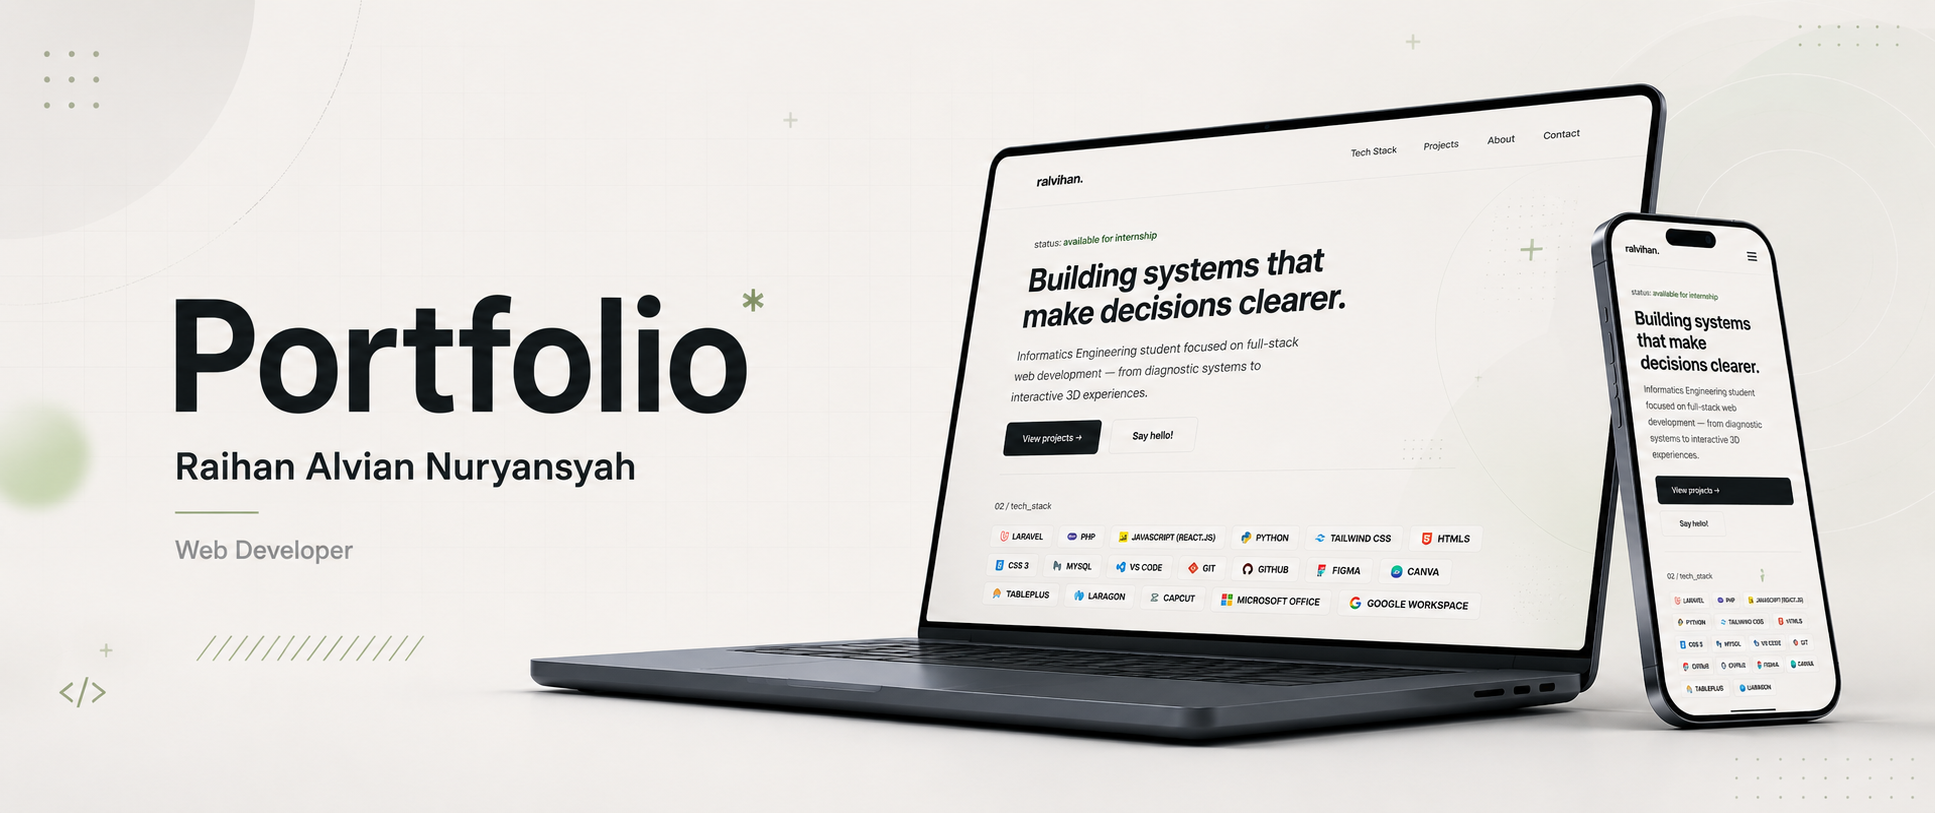
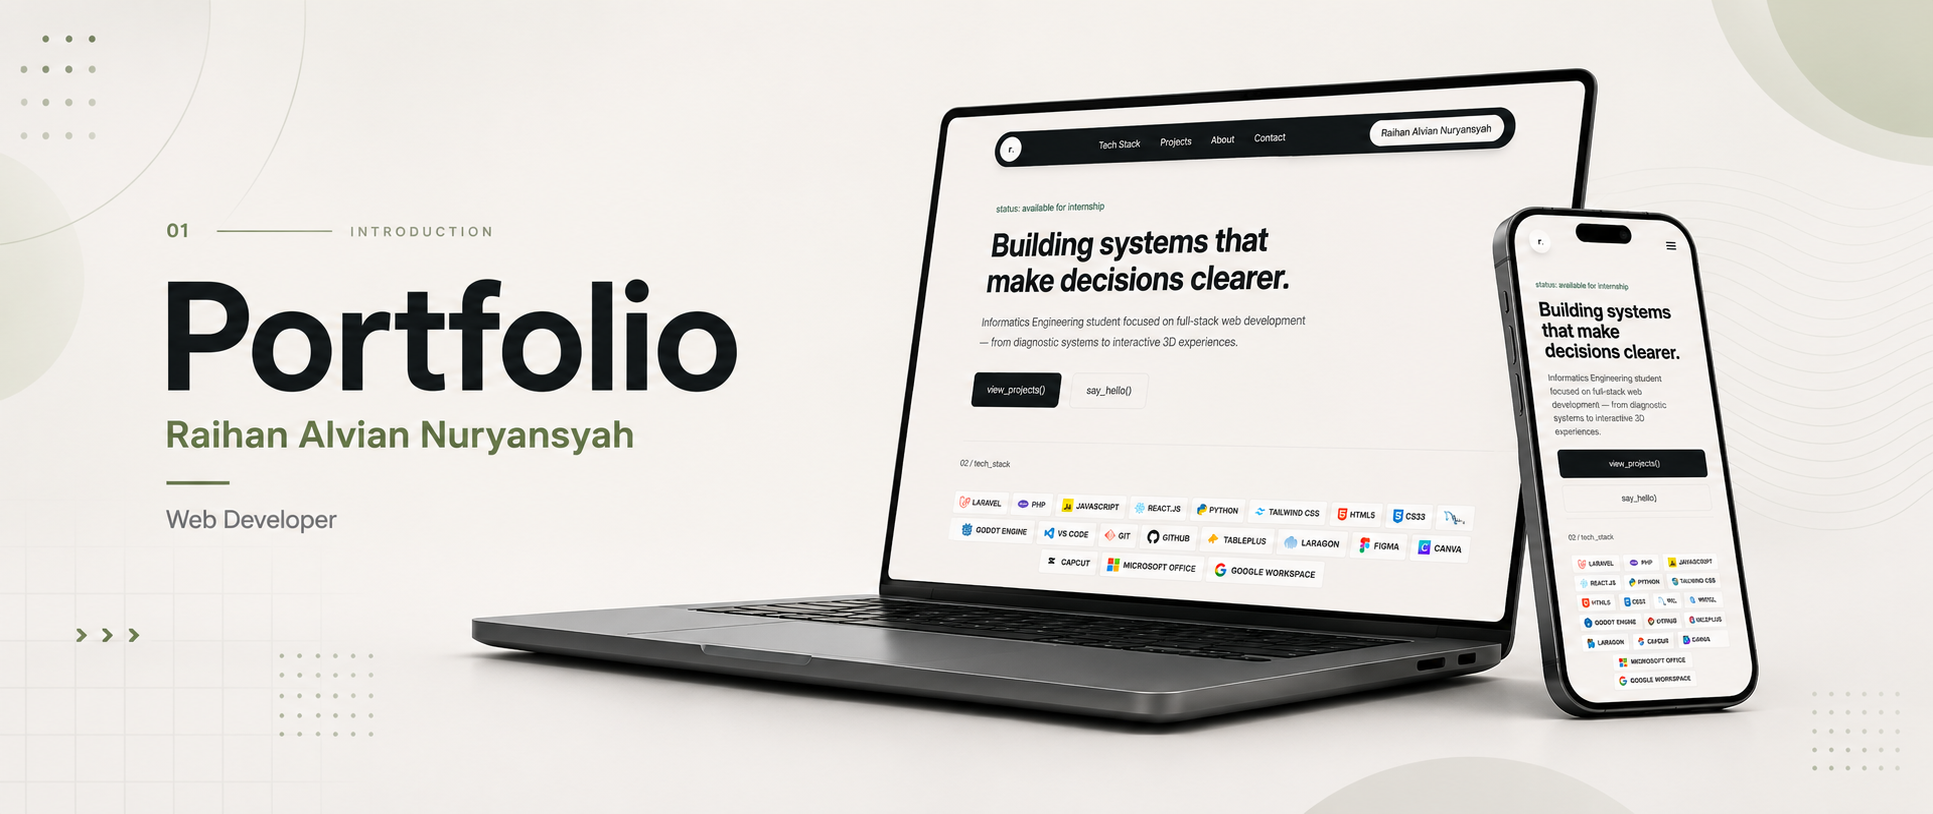
docs: update README preview and tweak Contact.jsx

diff --git a/src/components/Contact.jsx b/src/components/Contact.jsx
@@ -58,7 +58,7 @@ export default function Contact() {
         ))}
       </div>
       <p className="mt-10 sm:mt-16 font-[var(--font-mono)] text-xs text-[var(--color-muted)]">
-        © {new Date().getFullYear()} Jok
+        © {new Date().getFullYear()} raihan alvian nuryansyah
       </p>
     </section>
   );
